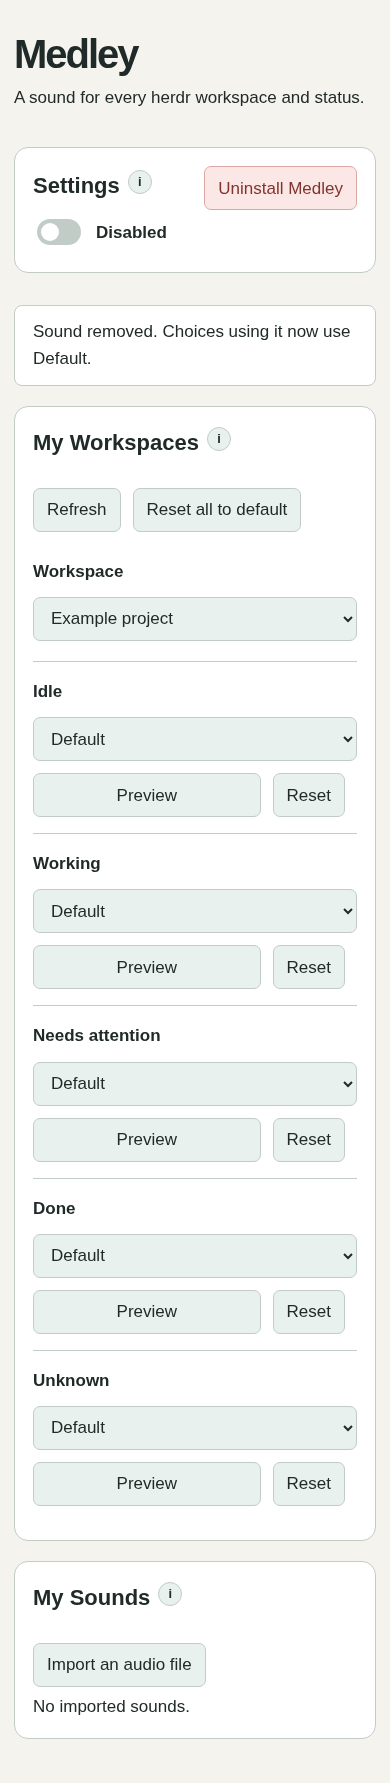
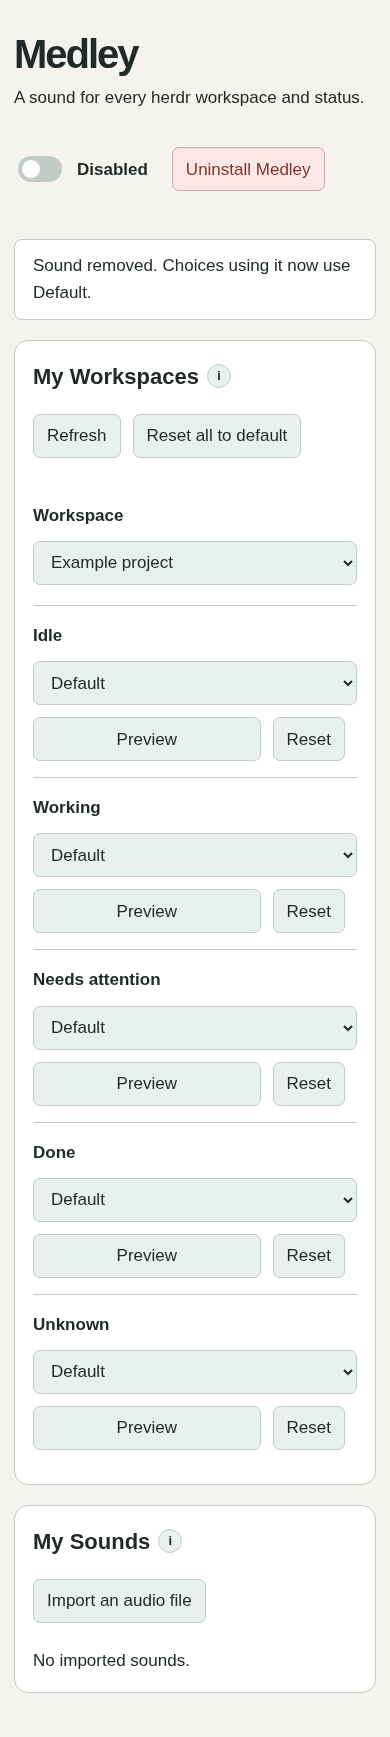
Simplify header controls and give panel headings more space

diff --git a/assets/index.html b/assets/index.html
@@ -1,6 +1,6 @@
 <!doctype html>
 <html lang="en"><head><meta charset="utf-8"><meta name="viewport" content="width=device-width, initial-scale=1"><title>Medley · Workspace sounds</title><link rel="stylesheet" href="/style.css"><script defer src="/app.js"></script></head>
-<body><main><header class="app-heading"><div><h1>Medley</h1><p>A sound for every herdr workspace and status.</p></div><section aria-labelledby="playback-heading"><div class="section-heading"><div class="library-heading"><h2 id="playback-heading">Settings</h2><button class="info-button" type="button" popovertarget="medley-help" aria-label="About Medley">i</button></div><button id="uninstall">Uninstall Medley</button></div><label class="toggle"><input type="checkbox" role="switch" aria-label="Medley enabled" id="enabled"> <span id="enabled-label">Disabled</span></label><div id="medley-help" class="help-popover" popover><p>Medley handles notification sounds while enabled. Disabling or using Uninstall Medley here restores herdr’s previous sound setting. Audio plays on the herdr server’s machine, including for the workspace you are viewing.</p><p>Local settings · No account or cloud service required</p></div></section></header>
+<body><main><header class="app-heading"><div><h1>Medley</h1><p>A sound for every herdr workspace and status.</p></div><div class="settings-controls"><label class="toggle"><input type="checkbox" role="switch" aria-label="Medley enabled" id="enabled"> <span id="enabled-label">Disabled</span></label><button id="uninstall">Uninstall Medley</button></div></header>
 <p id="feedback" role="status" aria-live="polite" hidden></p><p id="error" role="alert" hidden></p><audio id="player" controls hidden aria-label="Sound preview"></audio>
 
 <div class="workspace-sounds-layout">

diff --git a/assets/style.css b/assets/style.css
@@ -22,4 +22,8 @@ main{max-width:1600px}.workspace-sounds-layout{display:grid;gap:20px;align-items
 
 @media(min-width:1200px){.workspace-sounds-layout{grid-template-rows:repeat(var(--panel-rows,7),auto);row-gap:0}.workspace-sounds-layout>section{grid-row:1/span var(--panel-rows,7);grid-template-rows:subgrid;row-gap:0}.workspace-sounds-layout>section[aria-labelledby=rules-heading]{grid-column:1}.workspace-sounds-layout>section[aria-labelledby=library-heading]{display:grid;grid-column:2}.workspace-sounds-layout .section-heading{grid-row:1;align-self:start}#library-files:not([hidden]){display:contents}.library-file{padding:16px 0;border-bottom:0;border-top:1px solid var(--border)}.library-file:first-child{border-top:0;padding:20px 0}}
 
-.app-heading{display:grid;gap:20px;align-items:center}.app-heading>section{margin:0;min-width:0}@media(min-width:1200px){.app-heading{grid-template-columns:minmax(0,1.15fr) minmax(0,1fr)}}
+.app-heading{display:grid;gap:20px;align-items:center}.settings-controls{display:flex;align-items:center;justify-content:flex-end;flex-wrap:wrap;gap:24px;min-width:0}.settings-controls .toggle{margin:0}@media(min-width:1200px){.app-heading{grid-template-columns:minmax(0,1.15fr) minmax(0,1fr)}}
+
+.app-heading{margin-bottom:48px}.workspace-sounds-layout .section-heading{padding-bottom:24px;align-items:center;column-gap:24px;row-gap:20px}.workspace-sounds-layout .library-heading{margin-bottom:0}.workspace-sounds-layout .section-heading button{margin-bottom:0}@media(max-width:1199px){.settings-controls{justify-content:flex-start}}
+
+.settings-controls[hidden]{display:none}

diff --git a/assets/app.js b/assets/app.js
@@ -140,7 +140,7 @@ $('uninstall').onclick = () => {
     await request('/uninstall',{});
     $('player').pause();
     $('enabled').checked=false; $('enabled-label').textContent='Disabled';
-    document.querySelectorAll('section').forEach(section=>section.hidden=true);
+    document.querySelectorAll('section,.settings-controls').forEach(section=>section.hidden=true);
   });
 };
 

diff --git a/docs/validation.md b/docs/validation.md
@@ -526,3 +526,31 @@ Block contract: no vendored block. Header has title and Settings as its two chil
 each panel heading still groups title/info separately from its actions. Removing the
 management toggle leaves no stale handlers or focus references. Shared content-row
 subgrids retain corresponding row tops and heights.
+
+
+## Header controls and whitespace — 2026-10-20
+
+Removed the Settings heading, card and its info popup as requested. The existing
+switch and Uninstall button sit directly in the header, with a 24px gap. Header
+clearance is 48px; panel headings have 24px clearance below and 20px between
+wrapped lines. Shared content tracks still align both panels' rows.
+
+Validation: 16 Python tests and Chromium interaction suite pass. Browser checks
+cover absence of Settings heading, single header button, heading clearance,
+shared row alignment at 1200/1280/1600px, long names, rename forms and 125% text.
+Desktop light and mobile dark synthetic captures inspected; populated desktop
+capture is at `/tmp/medley-spacing-evidence/populated-desktop.png`.
+
+Aesthetic-and-clear checks (scope: requested header and spacing):
+1. Minimalism: removed card, heading and help control; only two requested controls remain.
+2. Affordances: native labeled switch and soft-red text button retained; focus styles retained.
+3. Motion: no animation introduced; reduced-motion browser case passes.
+4. Scanning: larger heading clearance separates actions from rows; aligned dividers retained.
+5. Legibility: existing theme colors and relative body/control sizes retained; enlarged-text
+   alignment and 320px no-overflow checks pass. No new contrast pair introduced.
+6. Accessibility: switch retains accessible name; keyboard preview/rename and popup Escape
+   checks pass. Controls wrap on narrow screens. Screen-reader operation not manually verified.
+Block contract: no vendored block. Header remains two children (title, controls),
+and desktop panels retain shared subgrid tracks; rendered row checks pass.
+Security: PASS for existing token rejection checks on API, preview, rename and rule;
+no networking, credential, storage or backend behavior changed.
